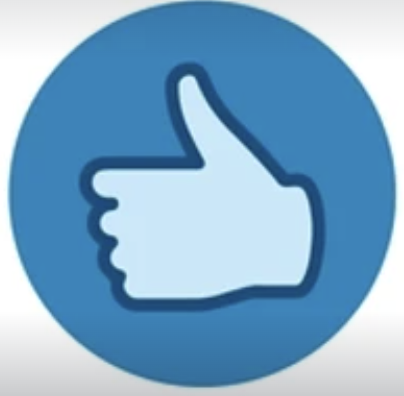
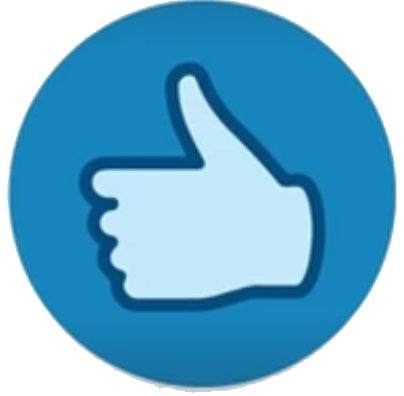
images now pertain to dark mode

diff --git a/react-app/src/components/Following/Followers/index.js b/react-app/src/components/Following/Followers/index.js
@@ -2,6 +2,7 @@ import { useState } from 'react'
 import { NavLink, useHistory } from 'react-router-dom';
 import { useDispatch, useSelector } from 'react-redux'
 import FollowerOptions from '../FollowerOptions';
+import gif from '../connection.gif'
 
 const Followers = () => {
     const history = useHistory()
@@ -100,7 +101,7 @@ const Followers = () => {
             </div>
             <div className="mainpage-right-side-container">
                 <div className='right-side-container'>
-                    <img className='connection-img' src='https://connectedinvestors.com/blog/wp-content/uploads/2018/05/Connect-with-Motivated-Sellers-How-to-Use-Text-Social.gif'></img>
+                    <img className='connection-img' src={gif}></img>
                 </div>
                 <div className="languages-used-container">
                     <div className="languages-row">

diff --git a/react-app/src/components/Following/Following/index.js b/react-app/src/components/Following/Following/index.js
@@ -3,6 +3,7 @@ import { NavLink, useHistory } from 'react-router-dom';
 import { useSelector } from 'react-redux'
 import './Following.css'
 import FollowerOptions from '../FollowerOptions';
+import gif from '../connection.gif'
 
 const Following = () => {
     const history = useHistory()
@@ -101,7 +102,7 @@ const Following = () => {
 
             <div className="mainpage-right-side-container">
                 <div className='right-side-container'>
-                    <img className='connection-img' src='https://connectedinvestors.com/blog/wp-content/uploads/2018/05/Connect-with-Motivated-Sellers-How-to-Use-Text-Social.gif'></img>
+                    <img className='connection-img' src={gif}></img>
                 </div>
                 <div className="languages-used-container">
                     <div className="languages-row">
